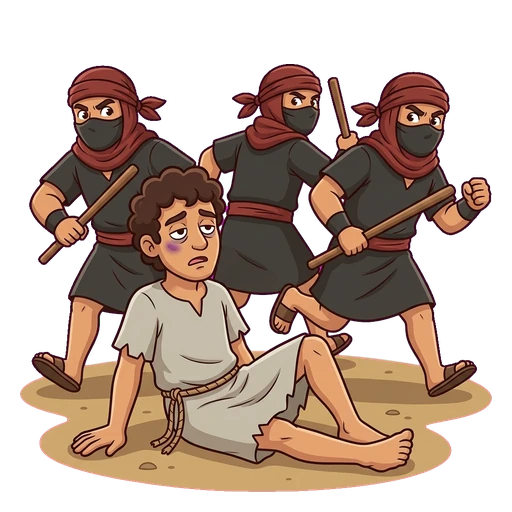
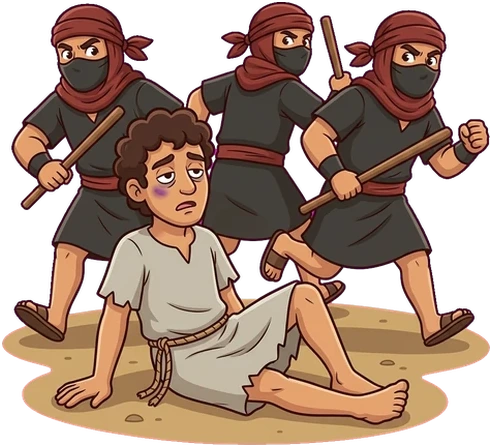
1.4.401 Story Strip Easy fill
Easy win captions keep their punctuation. The last card was clipped because its outline was measured during the snap scale. Samaritan stills are the v3 cut-outs, cropped to the picture so they fill the card. Drop frame-ancestors from the meta policy so it stops logging a console error.

diff --git a/src/components/challenges/StoryPiece.tsx b/src/components/challenges/StoryPiece.tsx
@@ -50,9 +50,10 @@ export function StoryPiece({
     const el = ref.current
     if (!el) return
     const apply = () => {
-      const rect = el.getBoundingClientRect()
-      const w = Math.max(48, Math.round(rect.width))
-      const h = Math.max(48, Math.round(rect.height))
+      // offset size ignores the snap scale. getBoundingClientRect during that
+      // scale stuck the last win piece a few pixels small and clipped the caption.
+      const w = Math.max(48, Math.round(el.offsetWidth))
+      const h = Math.max(48, Math.round(el.offsetHeight))
       setBox((prev) => (prev.w === w && prev.h === h ? prev : { w, h }))
     }
     apply()
@@ -188,9 +189,8 @@ export function GhostSlot({
     const el = ref.current
     if (!el) return
     const apply = () => {
-      const rect = el.getBoundingClientRect()
-      const w = Math.max(36, Math.round(rect.width))
-      const h = Math.max(36, Math.round(rect.height))
+      const w = Math.max(36, Math.round(el.offsetWidth))
+      const h = Math.max(36, Math.round(el.offsetHeight))
       setBox((prev) => (prev.w === w && prev.h === h ? prev : { w, h }))
     }
     apply()

diff --git a/docs/index.html b/docs/index.html
@@ -2,7 +2,7 @@
 <html lang="en">
   <head>
     <meta charset="UTF-8" />
-    <meta http-equiv="Content-Security-Policy" content="default-src 'self'; base-uri 'self'; object-src 'none'; frame-ancestors 'none'; form-action 'self'; script-src 'self'; style-src 'self' 'unsafe-inline' https://fonts.googleapis.com; font-src 'self' https://fonts.gstatic.com; img-src 'self' data: blob:; connect-src 'self'; worker-src 'self'; manifest-src 'self'; upgrade-insecure-requests" />
+    <meta http-equiv="Content-Security-Policy" content="default-src 'self'; base-uri 'self'; object-src 'none'; form-action 'self'; script-src 'self'; style-src 'self' 'unsafe-inline' https://fonts.googleapis.com; font-src 'self' https://fonts.gstatic.com; img-src 'self' data: blob:; connect-src 'self'; worker-src 'self'; manifest-src 'self'; upgrade-insecure-requests" />
     <meta name="referrer" content="strict-origin-when-cross-origin" />
     <link rel="icon" type="image/svg+xml" href="./favicon.svg" />
     <meta name="viewport" content="width=device-width, initial-scale=1, viewport-fit=cover" />

diff --git a/src/styles/storyStrip.css b/src/styles/storyStrip.css
@@ -62,7 +62,7 @@
   border-radius: 16px;
   background: linear-gradient(#2a0838, #1d0628);
   box-shadow: inset 0 0 0 2px rgba(255, 215, 112, 0.35);
-  padding: 10px 8px 6px;
+  padding: 8px 6px 4px;
   overflow: visible;
 }
 
@@ -85,15 +85,15 @@
 }
 
 .strip-board.is-win[data-n='3'] {
-  height: 132px;
+  height: 140px;
 }
 
 .strip-board.is-win[data-n='4'] {
-  height: 112px;
+  height: 128px;
 }
 
 .strip-board.is-win[data-n='5'] {
-  height: 108px;
+  height: 124px;
   flex-wrap: nowrap;
 }
 
@@ -437,7 +437,7 @@
   font-size: 10px;
   line-height: 1.05;
   letter-spacing: -0.02em;
-  padding: 1px 1px 0;
+  padding: 1px 3px 0;
   align-items: center;
 }
 

diff --git a/vite.config.ts b/vite.config.ts
@@ -11,12 +11,12 @@ const allowedHosts = ['localhost', '127.0.0.1', '.trycloudflare.com']
  * Dev server skips this so Vite HMR can run. No unsafe-eval.
  * style-src unsafe-inline covers React `style={{}}` attributes.
  * Google Fonts stay allowlisted until fonts are self-hosted.
+ * frame-ancestors is header-only. A meta tag ignores it and logs a console error.
  */
 export const APP_CSP = [
   "default-src 'self'",
   "base-uri 'self'",
   "object-src 'none'",
-  "frame-ancestors 'none'",
   "form-action 'self'",
   "script-src 'self'",
   "style-src 'self' 'unsafe-inline' https://fonts.googleapis.com",

diff --git a/src/content/changelog.ts b/src/content/changelog.ts
@@ -8,6 +8,14 @@ export interface ChangeNote {
 
 export const CHANGELOG: ChangeNote[] = [
   {
+    version: '1.4.401',
+    title: 'Story strip pictures fill the card',
+    when: '2026-10-09',
+    items: [
+      'Easy order pictures sit larger on the card, and every win caption keeps its period. The last win card is the same height as the others. The Samaritan road’s last picture is new, so the asking and the helping are easy to tell apart.',
+    ],
+  },
+  {
     version: '1.4.400',
     title: 'Night Watch Easy sparks buy more',
     when: '2026-10-09',

diff --git a/src/config/app.ts b/src/config/app.ts
@@ -1,5 +1,5 @@
 /** Display + envelope version. Keep in lockstep with package.json. */
-export const APP_VERSION = '1.4.400'
+export const APP_VERSION = '1.4.401'
 
 /** Capacitor / Play id — do not change without a migration story. */
 export const APP_ID = 'city.silver.unending'
